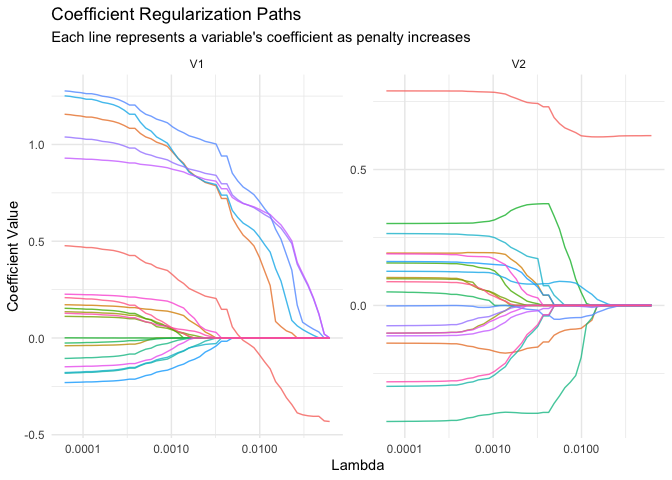
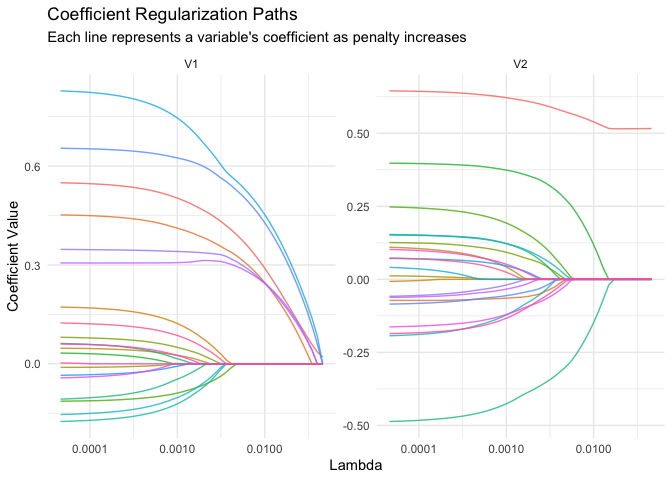
feat: update README with corrected cv k-fold

diff --git a/README.md b/README.md
@@ -53,13 +53,10 @@ fit <- cbSCRIP(
   coeffs = "original"
 )
 #> ℹ Creating case-base dataset...
-#> ℹ Created base series with 3000 samples based on 150 event(s).
-#> ✔ Calculated lambda_max: 0.0619
-#> ℹ Using 50 lambdas. Range: 0.0000619 to 0.0619
+#> ℹ Created base series with 3100 samples based on 155 event(s).
+#> ✔ Calculated lambda_max: 0.046
+#> ℹ Using 50 lambdas. Range: 0.000046 to 0.046
 #> ℹ Fitting model path for 50 lambda values...
-#> Fitting Path ■■■■■■■■■■■■                      36% | ETA:  2s
-#> Fitting Path ■■■■■■■■■■■■■■■■■■■■■■■■■■■■      90% | ETA:  0s
-#> Fitting Path ■■■■■■■■■■■■■■■■■■■■■■■■■■■■■■■  100% | ETA:  0s
 #> ✔ Path fitting complete.
 
 # Summary
@@ -89,9 +86,9 @@ cv_fit <- cv_cbSCRIP(
   nlambda = 50,
   ratio = 20
 )
-#> ℹ Created base series with 3000 samples based on 150 event(s).
-#> ✔ Calculated lambda_max: 0.0603
-#> ℹ Using 50 lambdas. Range: 0.0000603 to 0.0603
+#> ℹ Created base series with 3100 samples based on 155 event(s).
+#> ✔ Calculated lambda_max: 0.0447
+#> ℹ Using 50 lambdas. Range: 0.0000447 to 0.0447
 #> ℹ Starting 3-fold cross-validation...
 #> Warning: package ‘purrr’ was built under R version 4.5.2
 #> Warning: package ‘purrr’ was built under R version 4.5.2
@@ -109,10 +106,10 @@ cv_fit
 #> Performed 3-fold cross-validation over 50 lambda values.
 #> 
 #> Optimal Lambda Values:
-#>   Lambda with minimum deviance (lambda.min): 0.0055
-#>   Largest lambda within 1 SE of min (lambda.1se): 0.0128
+#>   Lambda with minimum deviance (lambda.min): 0.0082
+#>   Largest lambda within 1 SE of min (lambda.1se): 0.0255
 #> 
-#> The final model (fit.min) was fit using lambda.min and has 16 non-zero coefficients.
+#> The final model (fit) was fit using lambda.1se and has 9 non-zero coefficients.
 
 # Plot
 plot(cv_fit)
@@ -127,11 +124,11 @@ plot(cv_fit)
 - Supports **Lasso** and **Elastic-Net** penalties for variable
   selection in high-dimensional datasets ($p > n$).
 - **Optimizers**:
-  - `MNlogisticCCD`: Cyclical Coordinate Descent (efficient for sparse
+  - "CCD". Cyclical Coordinate Descent (efficient for sparse
     paths).
-  - `MNlogisticSAGAN`: Stochastic Average Gradient (SAGA) with Nesterov
+  - "SAGAN". Stochastic Average Gradient (SAGA) with Nesterov
     acceleration.
-  - `MNlogisticSVRG`: Stochastic Variance Reduced Gradient.
+  - "SVRG". Stochastic Variance Reduced Gradient.
 
 ## License
 
